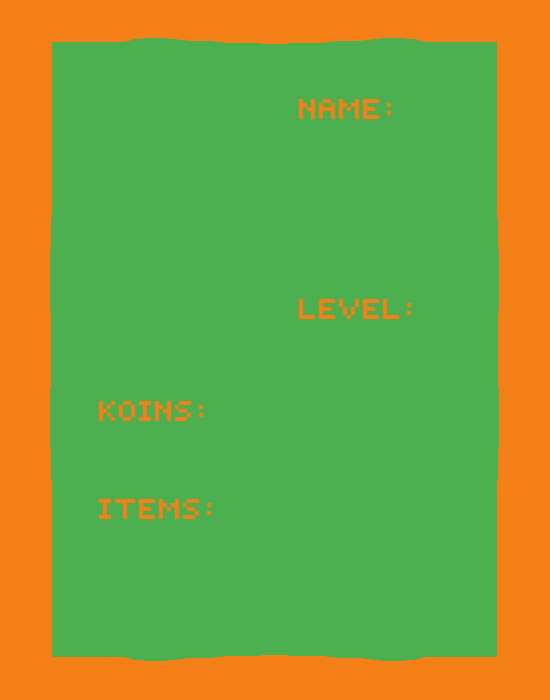
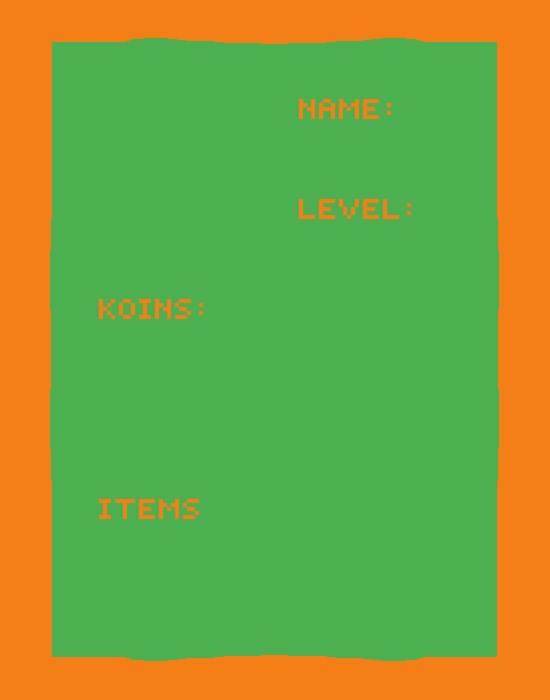
edited profile2 bg

diff --git a/slashCommands/info/profile.js b/slashCommands/info/profile.js
@@ -25,7 +25,7 @@ module.exports.run = async (interaction) => {
 
     const userCoinX = 215
     // draw background
-    const background = await Canvas.loadImage("https://github.com/AngKS/AKS/blob/master/slashCommands/assets/profile-BG.png?raw=true")
+    const background = await Canvas.loadImage("https://github.com/AngKS/AKS/blob/master/slashCommands/assets/profile2-BG.png?raw=true")
     context.drawImage(background, 0, 0, canvas.width, canvas.height)
 
 
@@ -55,7 +55,14 @@ module.exports.run = async (interaction) => {
                 context.fillText(user.level, 300, 330)
                 context.fillText(user.koins, userCoinX, 420)
                 const attachment = new MessageAttachment(canvas.toBuffer(), 'profile.png')
-                interaction.reply({ files: [attachment] })
+                return interaction.reply({ files: [attachment] })
+            }
+            else{
+                context.font = ('60px Quicksand Bold')
+                context.fillText("1", 300, 330)
+                context.fillText(0, userCoinX, 420)
+                const attachment = new MessageAttachment(canvas.toBuffer(), 'profile.png')
+                return interaction.reply({ files: [attachment] })
             }
 
         })
